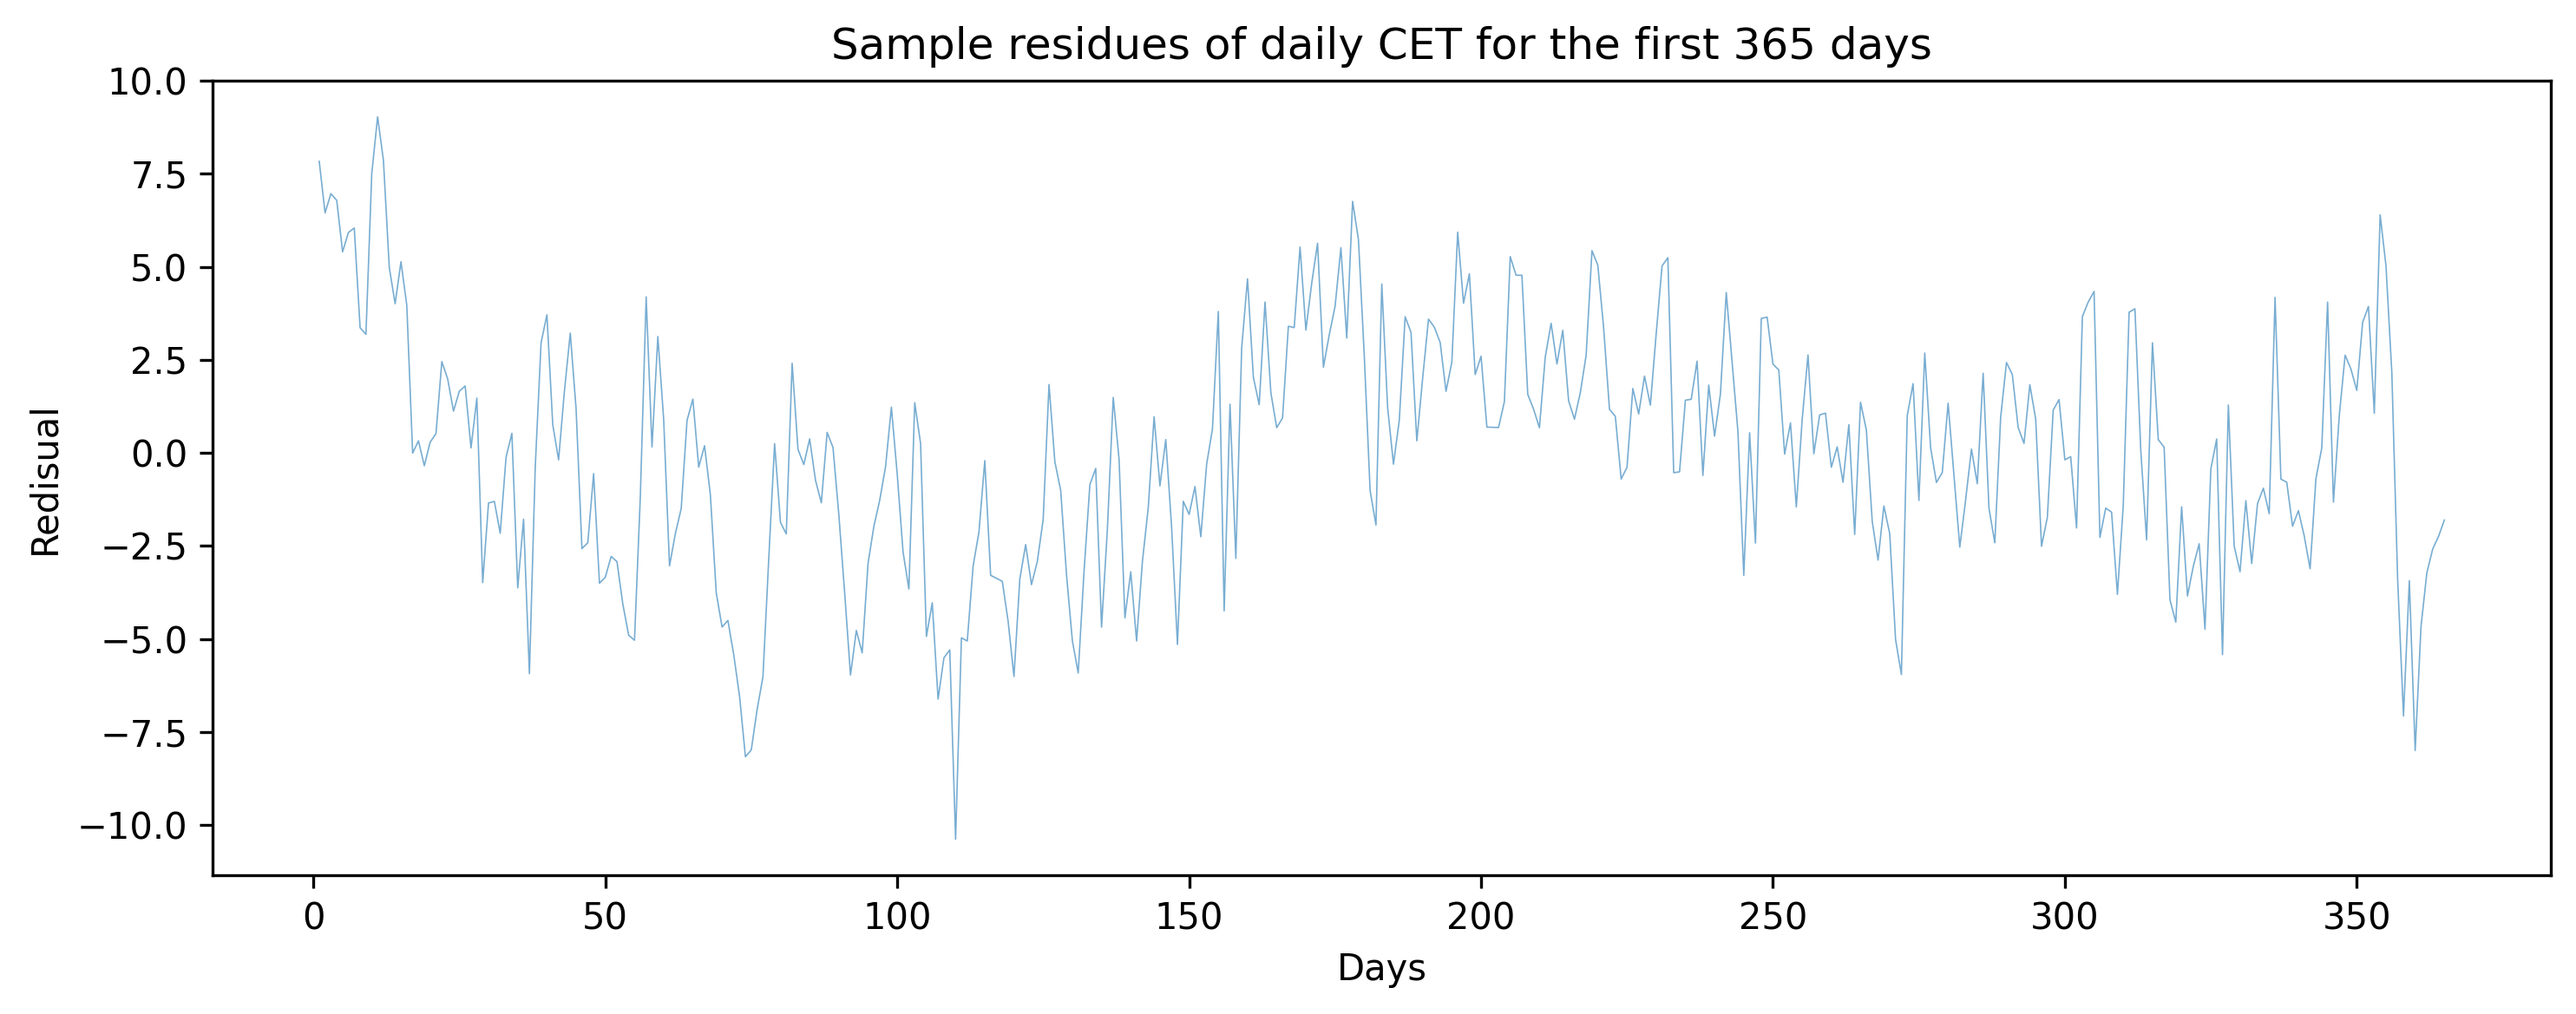
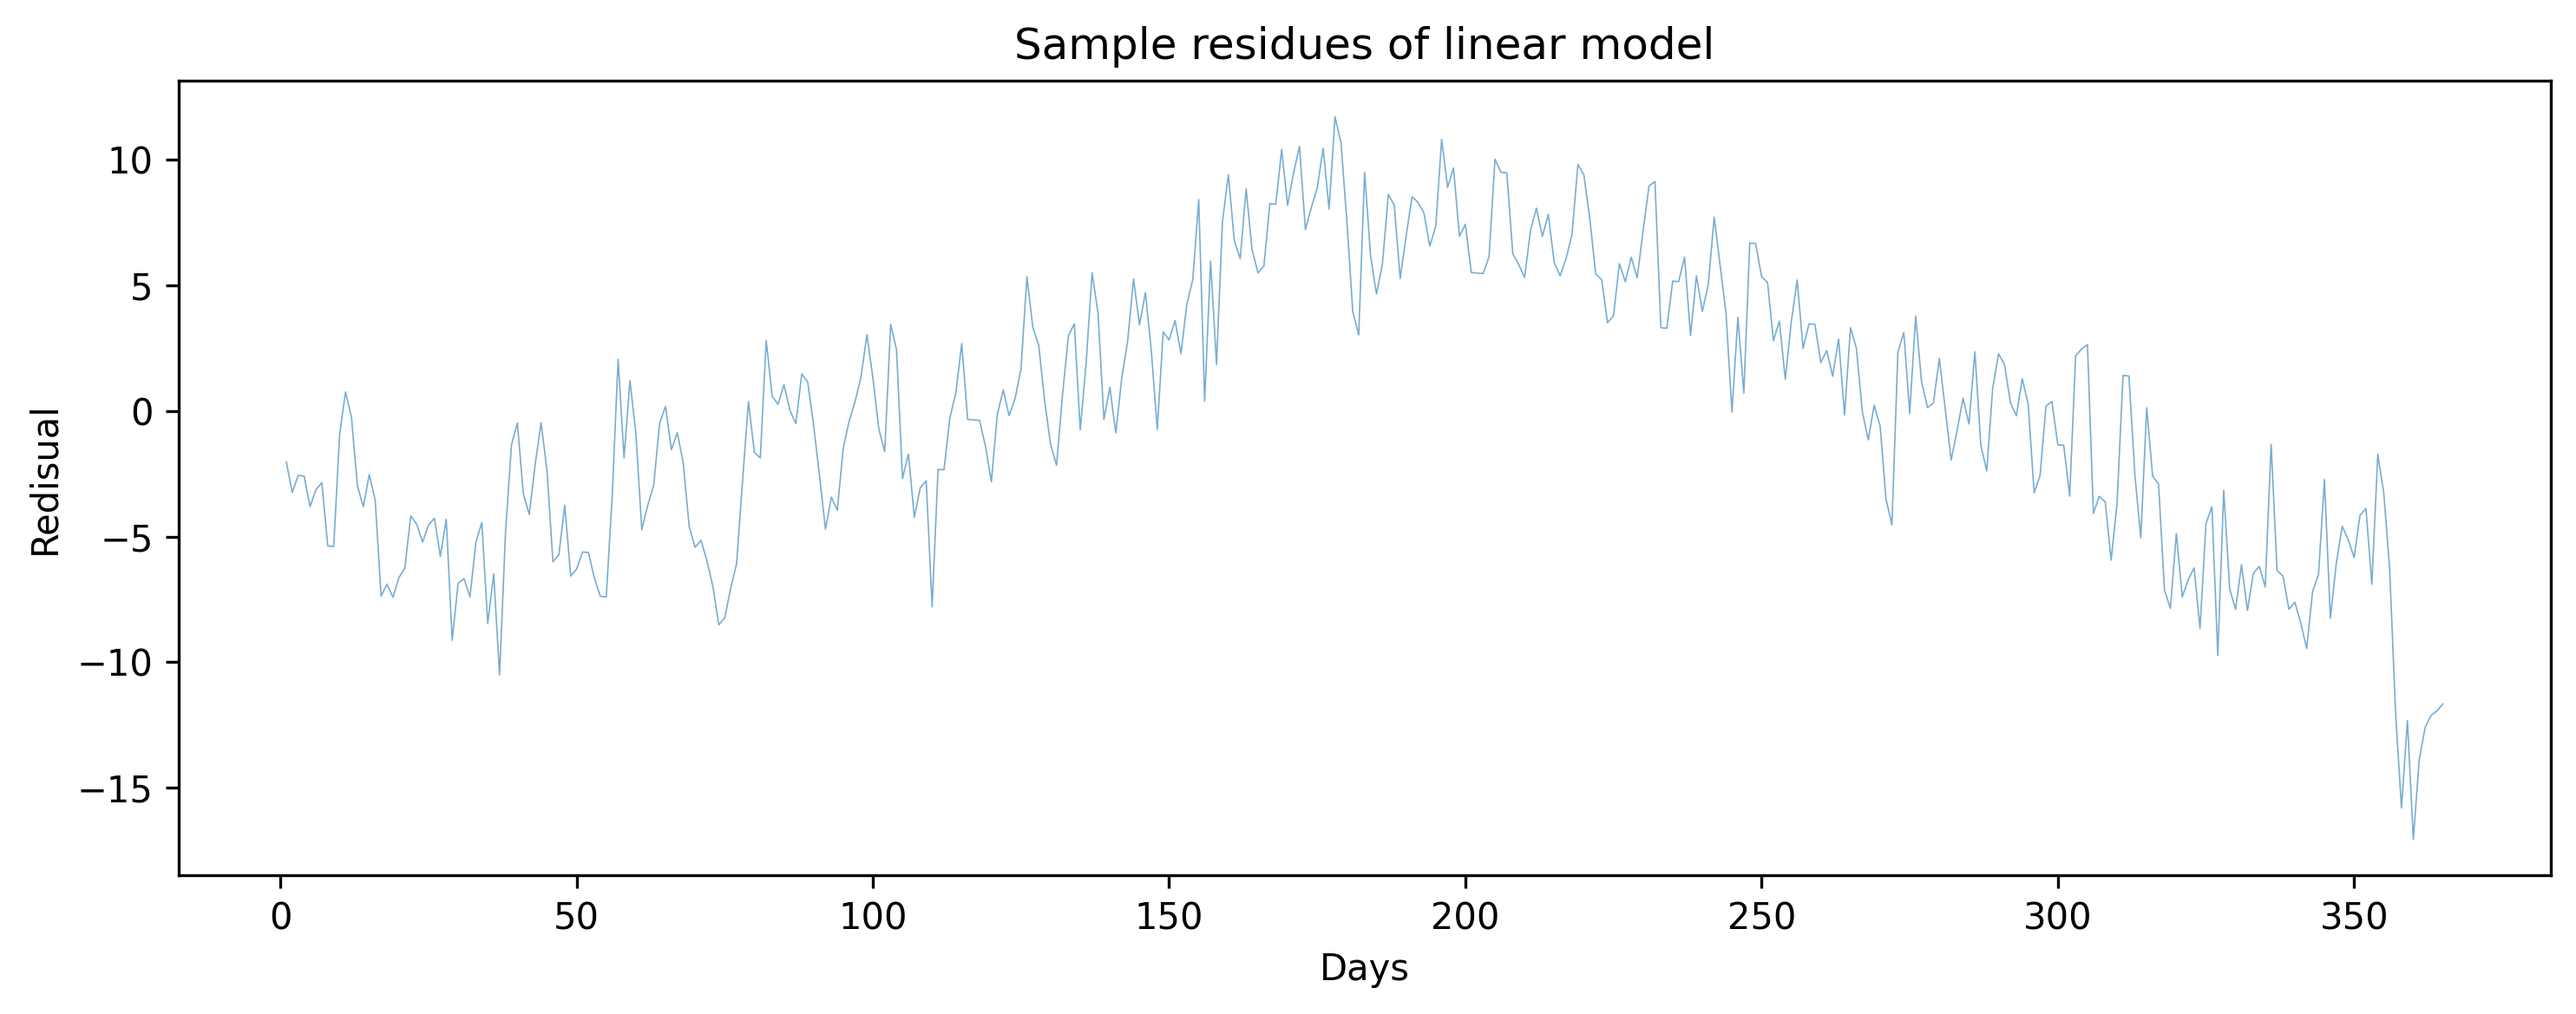
Use linear detrending and add seasonal regression residual plots

diff --git a/STATS_Minor/701/HW1_4.py b/STATS_Minor/701/HW1_4.py
@@ -4,6 +4,7 @@ import numpy as np
 import pandas as pd
 import matplotlib.pyplot as plt
 import matplotlib.dates as mdates
+from math import pi as pi
 
 df = pd.read_csv(
     Path(__file__).resolve().parent / "cet.csv",
@@ -36,7 +37,6 @@ fig.savefig(
     Path(__file__).resolve().parent / "cet_temp.png",
     dpi=300, bbox_inches="tight",
 )
-plt.show()
 
 ### Part 2 ###
 x = df["temp"].iloc[:365].to_numpy()
@@ -59,13 +59,12 @@ fig_2.savefig(
     Path(__file__).resolve().parent / "Lags.png",
     dpi=300, bbox_inches="tight",
 )
-plt.show()
 
 ### Part 3 ###
 
 n = 365
 t = np.arange(1, n + 1, dtype=float)
-A = np.column_stack((np.ones(n), t, t**2))
+A = np.column_stack((np.ones(n), t))
 
 beta, residuals, rank, singular_values = np.linalg.lstsq(A, x, rcond=None)
 
@@ -77,10 +76,37 @@ ax_3.plot(t,resid,
     linewidth=0.4, alpha=0.6,)
 ax_3.set_xlabel("Days")
 ax_3.set_ylabel("Redisual")
-ax_3.set_title("Sample residues of daily CET for the first 365 days")
+ax_3.set_title("Sample residues of linear model")
 fig_3.tight_layout()
 fig_3.savefig(
     Path(__file__).resolve().parent / "Residues.png",
     dpi=300, bbox_inches="tight",
 )
-plt.show()
+
+### Part 4 ###
+
+n = 3*365
+
+x = df["temp"].iloc[:n].to_numpy()
+x = x - np.mean(x)
+
+t = np.arange(1, n + 1, dtype=float)
+angle_t = t*2*pi/365
+A = np.column_stack((np.ones(n), t,np.cos(angle_t),np.sin(angle_t)))
+
+beta, residuals, rank, singular_values = np.linalg.lstsq(A, x, rcond=None)
+
+x_hat = A @ beta
+resid = x - x_hat
+
+fig_4, ax_4 = plt.subplots(figsize=(10, 4))
+ax_4.plot(t,resid,
+    linewidth=0.4, alpha=0.6,)
+ax_4.set_xlabel("Days")
+ax_4.set_ylabel("Redisual")
+ax_4.set_title("Sample residues of igonometric model")
+fig_4.tight_layout()
+fig_4.savefig(
+    Path(__file__).resolve().parent / "Tri_Residues.png",
+    dpi=300, bbox_inches="tight",
+)
